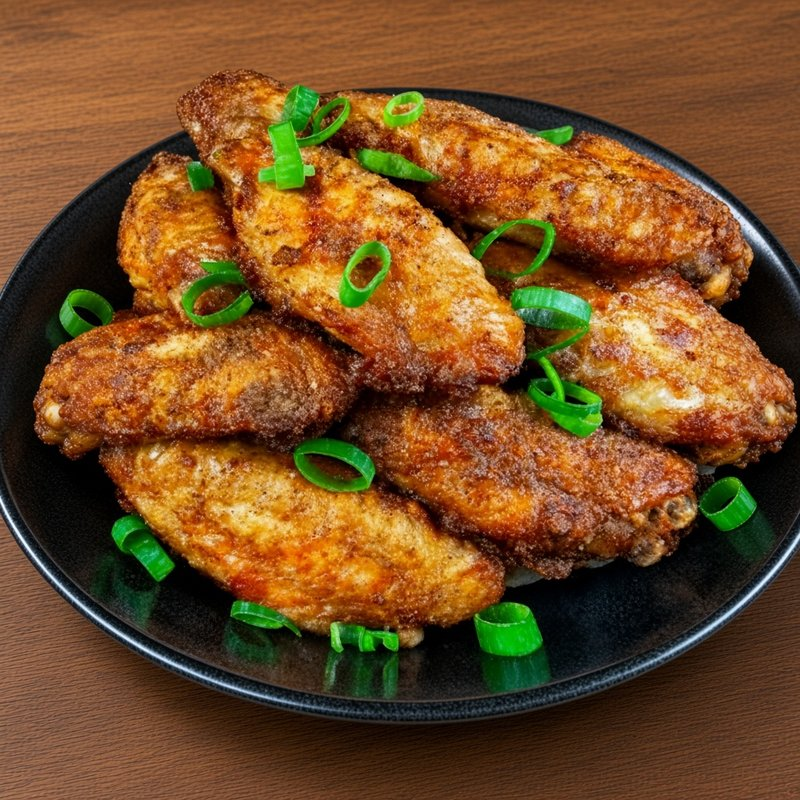
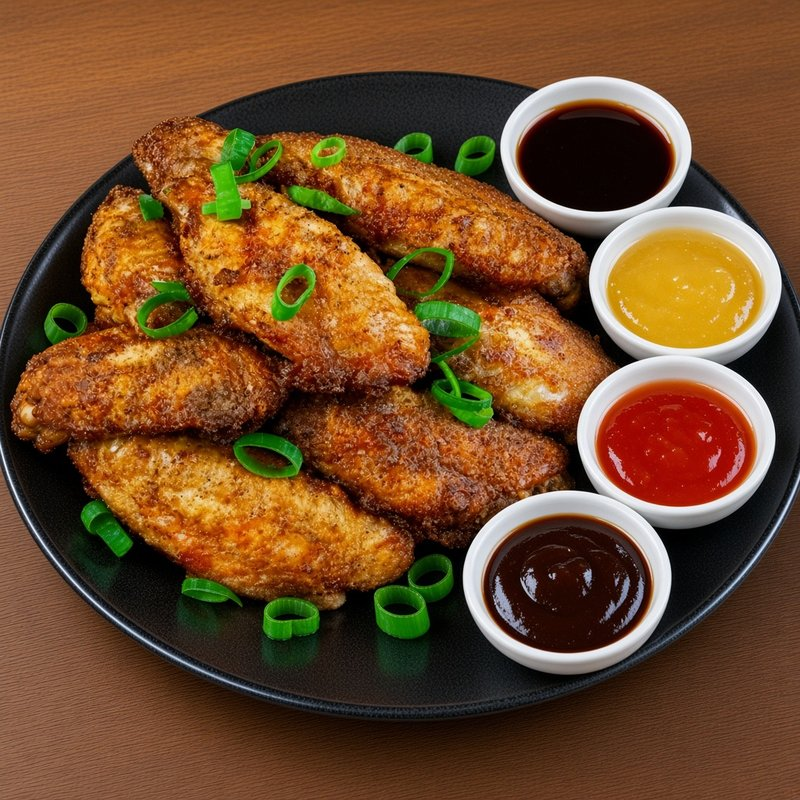
Alitas Fritas: salsas liquidas

diff --git a/index.html b/index.html
@@ -117,7 +117,7 @@ h3 a{font-size:.85rem;color:#b3121b;font-weight:700}
  <a class="pc" href="carta/#chef"><img src="img/chef/chef6-salchialita.jpg?v=2" alt="Salchialita Especial" loading="lazy"><span class="pr">S/ 25</span><div class="bd"><b>Salchialita Especial</b><small>Alitas, papas, hot dog, tocino y huevo frito</small><span class="go">Pedir</span></div></a>
  <a class="pc" href="carta/#chef"><img src="img/chef/chef7-banmian-especial.jpg?v=2" alt="Ban-Mian Especial" loading="lazy"><span class="pr">S/ 20</span><div class="bd"><b>Ban-Mian Especial</b><small>Crema clásica de maní y chancho ahumado</small><span class="go">Pedir</span></div></a>
  <a class="pc" href="carta/#chef"><img src="img/chef/chef8-banmian-tradicional.jpg?v=2" alt="Ban-Mian Tradicional" loading="lazy"><span class="pr">S/ 16</span><div class="bd"><b>Ban-Mian Tradicional</b><small>Tallarín artesanal con crema clásica de maní</small><span class="go">Pedir</span></div></a>
- <a class="pc" href="carta/#chef"><img src="img/chef/chef9-alitas.jpg?v=2" alt="Alitas Fritas Shanghai" loading="lazy"><span class="pr">S/ 20</span><div class="bd"><b>Alitas Fritas Shanghai</b><small>4 alitas con chaufa: Oriental, Limonkay, Tipakay o Hoisin</small><span class="go">Pedir</span></div></a>
+ <a class="pc" href="carta/#chef"><img src="img/chef/chef9-alitas.jpg?v=3" alt="Alitas Fritas Shanghai" loading="lazy"><span class="pr">S/ 20</span><div class="bd"><b>Alitas Fritas Shanghai</b><small>4 alitas con chaufa: Oriental, Limonkay, Tipakay o Hoisin</small><span class="go">Pedir</span></div></a>
  <a class="pc" href="carta/#chef"><img src="img/chef/chef10-mostruo.jpg?v=2" alt="Mostruo Brostear Shanghai" loading="lazy"><span class="nv">Nuevo</span><span class="pr">S/ 15</span><div class="bd"><b>Mostruo Brostear Shanghai</b><small>2 alitas, papas, chaufa de pollo y crema tártara</small><span class="go">Pedir</span></div></a>
 </div>
 </section>
